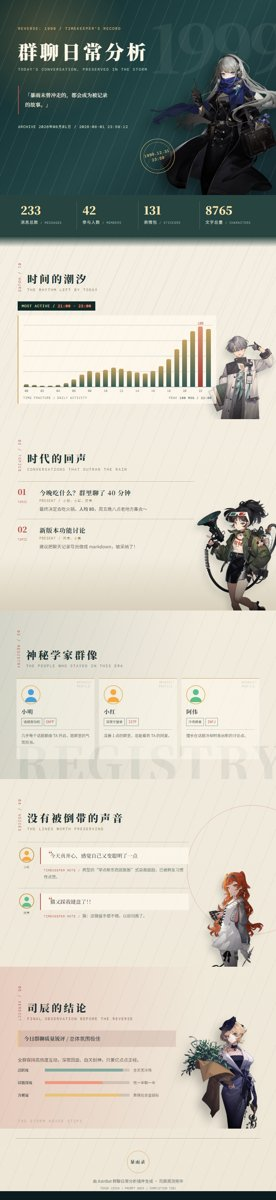
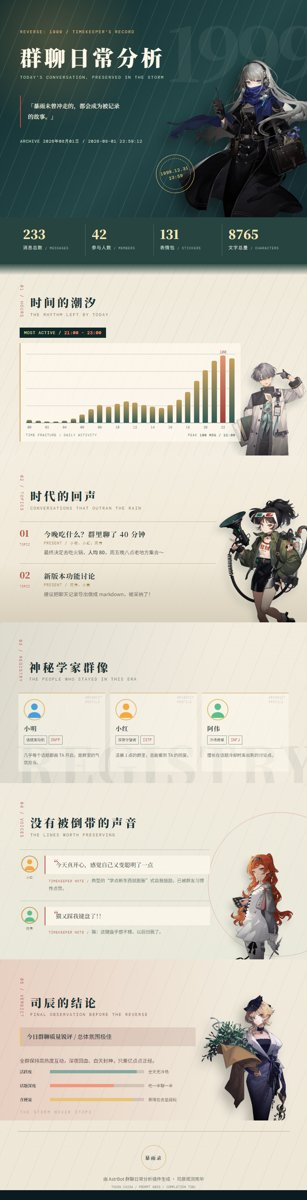
Tighten continuous report spacing

diff --git a/gda_reverse_1999/image_template.html b/gda_reverse_1999/image_template.html
@@ -1,4 +1,4 @@
 <!DOCTYPE html>
 <html lang="{{ 'zh-CN' if t2i_font_source == 'Mainland' else 'zh-Hant' }}"><head><meta charset="UTF-8"><meta name="viewport" content="width=device-width,initial-scale=1"><title>重返未来：1999 · 群聊观测</title><link rel="preconnect" href="{{ t2i_google_fonts_mirror }}"><link href="{{ t2i_google_fonts_mirror }}/css2?family=Noto+Serif+SC:wght@500;700;900&family=Noto+Serif+TC:wght@500;700;900&family=Noto+Sans+SC:wght@400;500;700&family=Noto+Sans+TC:wght@400;500;700&family=DM+Mono&display=swap" rel="stylesheet"><style>
-:root{--night:#102928;--deep:#0b1c20;--mist:#dce2d7;--paper:#f4efe2;--ivory:#fffaf0;--gold:#c99c55;--red:#bd4d45;--blue:#8ca9a3;--ink:#183031;--font-title:{% if t2i_font_source == 'Mainland' %}'Noto Serif SC','Noto Serif TC'{% else %}'Noto Serif TC','Noto Serif SC'{% endif %},serif;--font-body:{% if t2i_font_source == 'Mainland' %}'Noto Sans SC','Noto Sans TC'{% else %}'Noto Sans TC','Noto Sans SC'{% endif %},sans-serif;--mono:'DM Mono',monospace}*{box-sizing:border-box;margin:0;padding:0}html{background:var(--deep)}body{font-family:var(--font-body);color:var(--ink);font-size:15px;line-height:1.8;-webkit-print-color-adjust:exact;print-color-adjust:exact}.page{width:750px;margin:auto;overflow:hidden;background:#f4efe2;background-image:repeating-linear-gradient(112deg,transparent 0 42px,rgba(35,62,58,.055) 43px 44px),linear-gradient(180deg,#f5f0e4,#eee7d8)}.avoid-break{break-inside:avoid;page-break-inside:avoid}.hero{height:530px;position:relative;overflow:hidden;color:#fff8e8;background:linear-gradient(135deg,#102a2b 0%,#244748 55%,#13272d 100%)}.hero:before{content:"";position:absolute;inset:0;background:repeating-linear-gradient(112deg,transparent 0 34px,rgba(218,236,223,.11) 35px 36px),radial-gradient(circle at 17% 18%,rgba(201,156,85,.28),transparent 29%)}.hero:after{content:"1999";position:absolute;right:-24px;top:32px;font:900 180px/1 var(--font-title);letter-spacing:-12px;color:rgba(255,249,230,.06)}.hero-copy{position:absolute;z-index:3;left:49px;top:70px;width:398px}.eyebrow,.en,.chapter-index,.footer-code{font:10px/1.5 var(--mono);letter-spacing:2px}.eyebrow{color:#e2bf82}.hero h1{margin-top:21px;font:900 52px/1.25 var(--font-title);letter-spacing:7px}.hero .en{margin-top:10px;color:#bbcfbf}.hero-quote{margin-top:37px;width:255px;padding:13px 0 13px 17px;border-left:2px solid var(--red);font-family:var(--font-title);font-size:14px;line-height:1.85}.hero-date{margin-top:27px;color:#d6dccc;font:10px var(--mono);letter-spacing:1px}.hero-char{position:absolute;z-index:2;right:-34px;bottom:-26px;width:380px;filter:drop-shadow(-16px 17px 14px rgba(0,0,0,.37))}.hero-seal{position:absolute;z-index:4;right:275px;bottom:59px;width:94px;height:94px;border:1px solid #dfbd78;border-radius:50%;display:flex;align-items:center;justify-content:center;text-align:center;color:#efc980;font:10px/1.55 var(--mono);letter-spacing:1px;transform:rotate(-13deg)}.hero-seal:after{content:"";position:absolute;inset:8px;border:1px dashed #dfbd78;border-radius:50%}.metrics{display:grid;grid-template-columns:repeat(4,1fr);background:rgba(26,57,54,.94);color:#fff8e8;padding:17px 41px 20px;gap:0;position:relative}.metrics:after{content:"";position:absolute;left:0;right:0;bottom:-28px;height:29px;background:linear-gradient(180deg,rgba(26,57,54,.94),transparent);pointer-events:none;z-index:1}.metric{padding:5px 15px 8px;border-left:1px solid rgba(224,200,145,.27)}.metric:first-child{border:0}.metric b{display:block;font:900 30px/1.2 var(--font-title);color:#f8e5b5}.metric small{font-size:11px;color:#d3dfd2;letter-spacing:1px}.metric span{font:8px var(--mono);color:#9eb4aa;letter-spacing:1px}.scene{position:relative;overflow:hidden}.scene-title{display:flex;align-items:flex-end;gap:16px;position:relative;z-index:3}.chapter-index{color:var(--red);writing-mode:vertical-rl;line-height:1}.scene-title h2{font:900 28px/1.2 var(--font-title);letter-spacing:5px}.scene-title .en{margin-top:5px;color:#8b7761}.tide{min-height:410px;padding:72px 48px 42px;background:transparent}.tide:before{content:"";position:absolute;inset:0;background:repeating-linear-gradient(115deg,transparent 0 31px,rgba(40,74,70,.06) 32px 33px)}.tide-char{position:absolute;right:-25px;bottom:-46px;width:250px;opacity:.88;filter:drop-shadow(-8px 13px 9px rgba(25,43,40,.2))}.tide .scene-title{width:420px}.peak-box{position:relative;z-index:3;display:inline-block;margin:24px 0 13px;padding:6px 11px;background:var(--night);color:#f2e0b7;font:10px var(--mono);letter-spacing:1px}.peak-box b{color:#f18770}.chart-wrap{position:relative;z-index:3;width:540px;padding:14px 13px 11px;background:rgba(255,250,239,.7);border-left:2px solid var(--gold)}.chart-col{padding-top:20px;background:repeating-linear-gradient(0deg,transparent 0 40px,rgba(31,55,51,.15) 41px 42px)}.chart-bars{height:160px;display:flex;gap:4px;align-items:flex-end}.chart-item{height:100%;flex:1;display:flex;align-items:flex-end;justify-content:center;position:relative}.chart-bar{width:75%;min-height:3px;background:linear-gradient(to top,#335b57,#c7a15e);border-radius:4px 4px 0 0}.chart-bar.peak{background:linear-gradient(to top,#9e3e39,#e19a73)}.chart-val{position:absolute;bottom:calc(100% + 6px);font:9px var(--mono);color:var(--red)}.chart-hr{border:0;border-top:1px solid #778780}.chart-labels{display:flex;gap:4px;padding-top:5px}.chart-labels span{flex:1;text-align:center;font:8px var(--mono);color:#708079}.chart-caption{display:flex;justify-content:space-between;margin-top:9px;font:8px var(--mono);letter-spacing:1px;color:#697870}.topic-scene{min-height:520px;padding:56px 48px 70px;background:transparent}.topic-scene:before{content:"";position:absolute;left:0;right:0;bottom:0;height:145px;background:linear-gradient(0deg,#d8d0bc,transparent)}.topic-scene .scene-title{margin-bottom:25px}.topic-list{position:relative;z-index:2;width:480px}.topic-item{display:flex;gap:17px;padding:17px 0;border-top:1px solid #c9b99c}.topic-no{width:42px;flex:none;color:var(--red)}.topic-no b{display:block;font:900 21px/1 var(--font-title)}.topic-no span{font:7px var(--mono);letter-spacing:1px}.topic-title{font:700 17px/1.5 var(--font-title);letter-spacing:1px}.topic-meta{margin-top:3px;color:#a47d42;font:9px var(--mono);letter-spacing:1px}.topic-detail{margin-top:5px;color:#5f6861;font-size:12px}.topic-char{position:absolute;right:-58px;bottom:-33px;width:300px;z-index:1;filter:drop-shadow(-9px 11px 8px rgba(25,43,40,.17))}.registry{min-height:457px;padding:54px 45px;background:linear-gradient(90deg,rgba(20,55,52,.13),transparent 72%);color:var(--ink)}.registry:before{content:"REGISTRY";position:absolute;left:37px;bottom:-44px;color:rgba(232,212,169,.08);font:900 130px var(--font-title);letter-spacing:6px}.registry .en{color:#bfae87}.title-grid{display:grid;grid-template-columns:repeat(3,1fr);gap:12px;position:relative;z-index:2;margin-top:26px}.title-card{min-height:220px;position:relative;padding:18px 13px;background:rgba(255,248,230,.09);border-top:1px solid #d4b272;overflow:hidden}.title-card:after{content:"ARCANIST\A PROFILE";white-space:pre;position:absolute;right:7px;top:6px;color:rgba(255,248,230,.35);font:7px/1.5 var(--mono);letter-spacing:1px}.t-avatar{width:52px;height:52px;border-radius:50%;overflow:hidden;border:2px solid #e2bd75}.t-avatar img{width:100%;height:100%;object-fit:cover}.t-name{margin-top:9px;font:700 15px var(--font-title);letter-spacing:1px}.t-badges{display:flex;gap:4px;flex-wrap:wrap;margin-top:7px}.t-title-tag,.t-mbti{padding:2px 5px;border:1px solid rgba(239,218,175,.54);font-size:9px}.t-mbti{font-family:var(--mono);color:#f3bdad}.t-reason{margin-top:9px;padding-top:7px;border-top:1px solid rgba(239,218,175,.23);font-size:10.5px;line-height:1.7;color:#d7ded0}.t-profile{position:absolute;right:-6px;bottom:-4px;width:58%;opacity:.08}.quote-stage{min-height:510px;padding:55px 48px;background:transparent}.quote-stage:after{content:"";position:absolute;right:-110px;top:71px;width:350px;height:350px;border:1px solid rgba(190,73,66,.35);border-radius:50%}.quote-stage .scene-title{margin-bottom:28px}.quote-wrapper{position:relative;z-index:2;width:465px;padding:14px 0;border-top:1px solid #bec6b9}.q-flex{display:flex;gap:13px}.q-side{flex:none;width:48px;text-align:center}.q-avatar{width:41px;height:41px;object-fit:cover;border-radius:50%;border:2px solid var(--gold)}.q-sender{font:8px var(--mono);color:#61716a;word-break:break-all}.q-main{flex:1}.q-bubble{padding:10px 13px 10px 25px;background:rgba(255,251,240,.65);border-left:2px solid var(--red);font:14px/1.75 var(--font-title);position:relative}.q-bubble:before{content:'“';position:absolute;left:9px;top:3px;font:23px var(--font-title);color:var(--red)}.q-note{padding:6px 10px;color:#68766f;font-size:11px}.note-label{font:8px var(--mono);color:var(--red);letter-spacing:1px}.quote-char{position:absolute;right:-20px;bottom:-47px;width:285px;z-index:1;filter:drop-shadow(-9px 13px 8px rgba(30,50,47,.19))}.assessment{min-height:440px;padding:53px 48px 38px;background:linear-gradient(90deg,rgba(189,77,69,.18),transparent 75%);color:var(--ink)}.assessment:before{content:"THE STORM NEVER STOPS";position:absolute;left:49px;bottom:14px;font:9px var(--mono);letter-spacing:3px;color:rgba(255,239,207,.43)}.assessment .en{color:#ebc98b}.block-char{position:absolute;right:-17px;bottom:-27px;width:294px;filter:drop-shadow(-13px 15px 12px rgba(0,0,0,.25))}.quality-summary{position:relative;z-index:2;width:430px;margin-top:24px;font-size:12px;color:#ffeeda}.quality-summary.head{padding:10px 14px;border-left:3px solid #f2c470;background:rgba(30,20,22,.2);font-size:14px}.quality-summary b{font-family:var(--font-title)}.dim-row{position:relative;z-index:2;display:flex;align-items:center;gap:10px;width:418px;padding:8px 0;font-size:10px}.dim-name{width:64px;font-family:var(--font-title);font-weight:700}.dim-bar-box{flex:1;height:8px;background:rgba(255,245,220,.25)}.dim-bar{height:100%;background:#e9c378}.dim-bar.d2{background:#83aaa0}.dim-bar.d3{background:#f0987f}.dim-comment{width:104px;color:#f4d9c5}.footer{position:relative;height:170px;padding-top:60px;text-align:center;background:transparent;color:var(--ink)}.footer:before{content:"";position:absolute;left:42px;right:42px;top:26px;border-top:1px solid rgba(225,190,123,.39)}.seal{display:inline-flex;width:61px;height:61px;align-items:center;justify-content:center;border:1px solid #d4ab67;border-radius:50%;font:700 12px/1.35 var(--font-title);letter-spacing:2px;position:relative;z-index:1}.seal span{display:none}.footer-line{margin-top:12px;font-size:11px;color:#c3d1c2}.token-line{margin-top:4px;font:8px var(--mono);color:#89a39a}.footer-art,.footer-art2,.footer-orn,.deco-char,.blk-sticker,.sec-head,.sec-no,.sec-title,.sec-sub,.kpi-row,.kpi-card,.kpi-num,.kpi-unit,.kpi-label,.kpi-en{display:none}
+:root{--night:#102928;--deep:#0b1c20;--mist:#dce2d7;--paper:#f4efe2;--ivory:#fffaf0;--gold:#c99c55;--red:#bd4d45;--blue:#8ca9a3;--ink:#183031;--font-title:{% if t2i_font_source == 'Mainland' %}'Noto Serif SC','Noto Serif TC'{% else %}'Noto Serif TC','Noto Serif SC'{% endif %},serif;--font-body:{% if t2i_font_source == 'Mainland' %}'Noto Sans SC','Noto Sans TC'{% else %}'Noto Sans TC','Noto Sans SC'{% endif %},sans-serif;--mono:'DM Mono',monospace}*{box-sizing:border-box;margin:0;padding:0}html{background:var(--deep)}body{font-family:var(--font-body);color:var(--ink);font-size:15px;line-height:1.8;-webkit-print-color-adjust:exact;print-color-adjust:exact}.page{width:750px;margin:auto;overflow:hidden;background:#f4efe2;background-image:repeating-linear-gradient(112deg,transparent 0 42px,rgba(35,62,58,.055) 43px 44px),linear-gradient(180deg,#f5f0e4,#eee7d8)}.avoid-break{break-inside:avoid;page-break-inside:avoid}.hero{height:530px;position:relative;overflow:hidden;color:#fff8e8;background:linear-gradient(135deg,#102a2b 0%,#244748 55%,#13272d 100%)}.hero:before{content:"";position:absolute;inset:0;background:repeating-linear-gradient(112deg,transparent 0 34px,rgba(218,236,223,.11) 35px 36px),radial-gradient(circle at 17% 18%,rgba(201,156,85,.28),transparent 29%)}.hero:after{content:"1999";position:absolute;right:-24px;top:32px;font:900 180px/1 var(--font-title);letter-spacing:-12px;color:rgba(255,249,230,.06)}.hero-copy{position:absolute;z-index:3;left:49px;top:70px;width:398px}.eyebrow,.en,.chapter-index,.footer-code{font:10px/1.5 var(--mono);letter-spacing:2px}.eyebrow{color:#e2bf82}.hero h1{margin-top:21px;font:900 52px/1.25 var(--font-title);letter-spacing:7px}.hero .en{margin-top:10px;color:#bbcfbf}.hero-quote{margin-top:37px;width:255px;padding:13px 0 13px 17px;border-left:2px solid var(--red);font-family:var(--font-title);font-size:14px;line-height:1.85}.hero-date{margin-top:27px;color:#d6dccc;font:10px var(--mono);letter-spacing:1px}.hero-char{position:absolute;z-index:2;right:-34px;bottom:-26px;width:380px;filter:drop-shadow(-16px 17px 14px rgba(0,0,0,.37))}.hero-seal{position:absolute;z-index:4;right:275px;bottom:59px;width:94px;height:94px;border:1px solid #dfbd78;border-radius:50%;display:flex;align-items:center;justify-content:center;text-align:center;color:#efc980;font:10px/1.55 var(--mono);letter-spacing:1px;transform:rotate(-13deg)}.hero-seal:after{content:"";position:absolute;inset:8px;border:1px dashed #dfbd78;border-radius:50%}.metrics{display:grid;grid-template-columns:repeat(4,1fr);background:rgba(26,57,54,.94);color:#fff8e8;padding:17px 41px 20px;gap:0;position:relative}.metrics:after{content:"";position:absolute;left:0;right:0;bottom:-28px;height:29px;background:linear-gradient(180deg,rgba(26,57,54,.94),transparent);pointer-events:none;z-index:1}.metric{padding:5px 15px 8px;border-left:1px solid rgba(224,200,145,.27)}.metric:first-child{border:0}.metric b{display:block;font:900 30px/1.2 var(--font-title);color:#f8e5b5}.metric small{font-size:11px;color:#d3dfd2;letter-spacing:1px}.metric span{font:8px var(--mono);color:#9eb4aa;letter-spacing:1px}.scene{position:relative;overflow:hidden}.scene-title{display:flex;align-items:flex-end;gap:16px;position:relative;z-index:3}.chapter-index{color:var(--red);writing-mode:vertical-rl;line-height:1}.scene-title h2{font:900 28px/1.2 var(--font-title);letter-spacing:5px}.scene-title .en{margin-top:5px;color:#8b7761}.tide{padding:52px 48px 34px;background:linear-gradient(180deg,rgba(238,232,216,.78),rgba(244,239,226,.34))}.tide .chart-wrap{margin-bottom:0}.tide:before{content:"";position:absolute;inset:0;background:repeating-linear-gradient(115deg,transparent 0 31px,rgba(40,74,70,.06) 32px 33px)}.tide-char{position:absolute;right:-25px;bottom:-46px;width:250px;opacity:.88;filter:drop-shadow(-8px 13px 9px rgba(25,43,40,.2))}.tide .scene-title{width:420px}.peak-box{position:relative;z-index:3;display:inline-block;margin:24px 0 13px;padding:6px 11px;background:var(--night);color:#f2e0b7;font:10px var(--mono);letter-spacing:1px}.peak-box b{color:#f18770}.chart-wrap{position:relative;z-index:3;width:540px;padding:14px 13px 11px;background:rgba(255,250,239,.7);border-left:2px solid var(--gold)}.chart-col{padding-top:20px;background:repeating-linear-gradient(0deg,transparent 0 40px,rgba(31,55,51,.15) 41px 42px)}.chart-bars{height:160px;display:flex;gap:4px;align-items:flex-end}.chart-item{height:100%;flex:1;display:flex;align-items:flex-end;justify-content:center;position:relative}.chart-bar{width:75%;min-height:3px;background:linear-gradient(to top,#335b57,#c7a15e);border-radius:4px 4px 0 0}.chart-bar.peak{background:linear-gradient(to top,#9e3e39,#e19a73)}.chart-val{position:absolute;bottom:calc(100% + 6px);font:9px var(--mono);color:var(--red)}.chart-hr{border:0;border-top:1px solid #778780}.chart-labels{display:flex;gap:4px;padding-top:5px}.chart-labels span{flex:1;text-align:center;font:8px var(--mono);color:#708079}.chart-caption{display:flex;justify-content:space-between;margin-top:9px;font:8px var(--mono);letter-spacing:1px;color:#697870}.topic-scene{padding:48px 48px 42px;background:linear-gradient(180deg,rgba(247,240,225,.30),rgba(232,221,198,.42))}.topic-scene .topic-list{margin-bottom:0}.topic-scene:before{content:"";position:absolute;left:0;right:0;bottom:0;height:145px;background:linear-gradient(0deg,#d8d0bc,transparent)}.topic-scene .scene-title{margin-bottom:25px}.topic-list{position:relative;z-index:2;width:480px}.topic-item{display:flex;gap:17px;padding:17px 0;border-top:1px solid #c9b99c}.topic-no{width:42px;flex:none;color:var(--red)}.topic-no b{display:block;font:900 21px/1 var(--font-title)}.topic-no span{font:7px var(--mono);letter-spacing:1px}.topic-title{font:700 17px/1.5 var(--font-title);letter-spacing:1px}.topic-meta{margin-top:3px;color:#a47d42;font:9px var(--mono);letter-spacing:1px}.topic-detail{margin-top:5px;color:#5f6861;font-size:12px}.topic-char{position:absolute;right:-58px;bottom:-33px;width:300px;z-index:1;filter:drop-shadow(-9px 11px 8px rgba(25,43,40,.17))}.registry{padding:42px 45px 28px;background:linear-gradient(90deg,rgba(20,55,52,.09),rgba(244,239,226,.10) 72%);color:var(--ink)}.registry:before{content:"REGISTRY";position:absolute;left:37px;bottom:-44px;color:rgba(21,57,53,.025);font:900 130px var(--font-title);letter-spacing:6px}.registry .en{color:#bfae87}.title-grid{display:grid;grid-template-columns:repeat(3,1fr);gap:12px;position:relative;z-index:2;margin-top:26px}.title-card{position:relative;padding:14px 13px 13px;background:rgba(255,250,240,.48);border-top:1px solid #d4b272;overflow:hidden}.title-card:after{content:"ARCANIST\A PROFILE";white-space:pre;position:absolute;right:7px;top:6px;color:rgba(255,248,230,.35);font:7px/1.5 var(--mono);letter-spacing:1px}.t-avatar{width:52px;height:52px;border-radius:50%;overflow:hidden;border:2px solid #e2bd75}.t-avatar img{width:100%;height:100%;object-fit:cover}.t-name{margin-top:9px;font:700 15px var(--font-title);letter-spacing:1px}.t-badges{display:flex;gap:4px;flex-wrap:wrap;margin-top:7px}.t-title-tag,.t-mbti{padding:2px 5px;border:1px solid rgba(239,218,175,.54);font-size:9px}.t-mbti{font-family:var(--mono);color:#f3bdad}.t-reason{margin-top:9px;padding-top:7px;border-top:1px solid rgba(239,218,175,.23);font-size:10.5px;line-height:1.7;color:#d7ded0}.t-profile{position:absolute;right:-6px;bottom:-4px;width:58%;opacity:.08}.quote-stage{padding:46px 48px 38px;background:linear-gradient(180deg,rgba(238,235,222,.26),rgba(226,232,219,.50))}.quote-stage .quote-wrapper:last-child{margin-bottom:0}.quote-stage:after{content:"";position:absolute;right:-110px;top:71px;width:350px;height:350px;border:1px solid rgba(190,73,66,.35);border-radius:50%}.quote-stage .scene-title{margin-bottom:28px}.quote-wrapper{position:relative;z-index:2;width:465px;padding:14px 0;border-top:1px solid #bec6b9}.q-flex{display:flex;gap:13px}.q-side{flex:none;width:48px;text-align:center}.q-avatar{width:41px;height:41px;object-fit:cover;border-radius:50%;border:2px solid var(--gold)}.q-sender{font:8px var(--mono);color:#61716a;word-break:break-all}.q-main{flex:1}.q-bubble{padding:10px 13px 10px 25px;background:rgba(255,251,240,.65);border-left:2px solid var(--red);font:14px/1.75 var(--font-title);position:relative}.q-bubble:before{content:'“';position:absolute;left:9px;top:3px;font:23px var(--font-title);color:var(--red)}.q-note{padding:6px 10px;color:#68766f;font-size:11px}.note-label{font:8px var(--mono);color:var(--red);letter-spacing:1px}.quote-char{position:absolute;right:-20px;bottom:-47px;width:285px;z-index:1;filter:drop-shadow(-9px 13px 8px rgba(30,50,47,.19))}.assessment{padding:46px 48px 34px;background:linear-gradient(90deg,rgba(189,77,69,.16),rgba(244,239,226,.16) 75%);color:var(--ink)}.assessment:before{content:"THE STORM NEVER STOPS";position:absolute;left:49px;bottom:14px;font:9px var(--mono);letter-spacing:3px;color:rgba(255,239,207,.43)}.assessment .en{color:#ebc98b}.block-char{position:absolute;right:-17px;bottom:-27px;width:294px;filter:drop-shadow(-13px 15px 12px rgba(0,0,0,.25))}.quality-summary{position:relative;z-index:2;width:430px;margin-top:24px;font-size:12px;color:#ffeeda}.quality-summary.head{padding:10px 14px;border-left:3px solid #f2c470;background:rgba(30,20,22,.2);font-size:14px}.quality-summary b{font-family:var(--font-title)}.dim-row{position:relative;z-index:2;display:flex;align-items:center;gap:10px;width:418px;padding:8px 0;font-size:10px}.dim-name{width:64px;font-family:var(--font-title);font-weight:700}.dim-bar-box{flex:1;height:8px;background:rgba(255,245,220,.25)}.dim-bar{height:100%;background:#e9c378}.dim-bar.d2{background:#83aaa0}.dim-bar.d3{background:#f0987f}.dim-comment{width:104px;color:#f4d9c5}.footer{position:relative;height:170px;padding-top:60px;text-align:center;background:transparent;color:var(--ink)}.footer:before{content:"";position:absolute;left:42px;right:42px;top:26px;border-top:1px solid rgba(225,190,123,.39)}.seal{display:inline-flex;width:61px;height:61px;align-items:center;justify-content:center;border:1px solid #d4ab67;border-radius:50%;font:700 12px/1.35 var(--font-title);letter-spacing:2px;position:relative;z-index:1}.seal span{display:none}.footer-line{margin-top:12px;font-size:11px;color:#c3d1c2}.token-line{margin-top:4px;font:8px var(--mono);color:#89a39a}.footer-art,.footer-art2,.footer-orn,.deco-char,.blk-sticker,.sec-head,.sec-no,.sec-title,.sec-sub,.kpi-row,.kpi-card,.kpi-num,.kpi-unit,.kpi-label,.kpi-en{display:none}
 .registry:before{color:rgba(21,57,53,.075)}.registry .en{color:#71817a}.registry .chapter-index{color:var(--red)}.registry .title-card{background:rgba(255,250,240,.48);border-top-color:var(--gold)}.registry .title-card:after{color:rgba(28,65,61,.28)}.registry .t-name{color:var(--ink)}.registry .t-title-tag,.registry .t-mbti{border-color:rgba(44,75,69,.5);color:var(--ink)}.registry .t-mbti{color:var(--red)}.registry .t-reason{border-top-color:rgba(44,75,69,.22);color:#5b6e67}.assessment:before{color:rgba(133,59,52,.45)}.assessment .en{color:#8e554c}.assessment .quality-summary{color:#5d4a45}.assessment .quality-summary.head{background:rgba(116,49,43,.12);color:var(--ink)}.assessment .dim-comment{color:#745d56}.assessment .dim-bar-box{background:rgba(93,74,67,.18)}.footer:before{border-color:rgba(153,113,65,.5)}.footer-line{color:#566d66}.token-line{color:#82928c}</style></head><body><div class="page"><section class="hero"><div class="hero-copy"><div class="eyebrow">REVERSE: 1999 / TIMEKEEPER'S RECORD</div><h1>群聊日常分析</h1><div class="en">TODAY'S CONVERSATION, PRESERVED IN THE STORM</div><div class="hero-quote">「暴雨未曾冲走的，都会成为被记录的故事。」</div><div class="hero-date">ARCHIVE {{ current_date }} / {{ current_datetime }}</div></div><div class="hero-seal">1999.12.31<br>23:59</div><img class="hero-char" src="https://re.bluepoch.com/home/img/role/2.png" alt="维尔汀"></section><section class="metrics"><div class="metric"><b>{{ message_count }}</b><small>消息总数</small><span> / MESSAGES</span></div><div class="metric"><b>{{ participant_count }}</b><small>参与人数</small><span> / MEMBERS</span></div><div class="metric"><b>{{ emoji_count }}</b><small>表情包</small><span> / STICKERS</span></div><div class="metric"><b>{{ total_characters }}</b><small>文字总量</small><span> / CHARACTERS</span></div></section><section class="scene tide"><img class="tide-char" src="https://re.bluepoch.com/home/img/role/1.png" alt="角色"><div class="scene-title"><div class="chapter-index">01 / HOURS</div><div><h2>时间的潮汐</h2><div class="en">THE RHYTHM LEFT BY TODAY</div></div></div><div class="peak-box">MOST ACTIVE / <b>{{ most_active_period }}</b></div>{{ hourly_chart_html | safe }}</section><section class="scene topic-scene"><img class="topic-char" src="https://re.bluepoch.com/home/img/role/4.png" alt="角色">{{ topics_html | safe }}</section><section class="scene registry">{{ titles_html | safe }}</section><section class="scene quote-stage"><img class="quote-char" src="https://re.bluepoch.com/home/img/role/5.png" alt="角色">{{ quotes_html | safe }}</section>{% if chat_quality_html %}<section class="scene assessment">{{ chat_quality_html | safe }}</section>{% endif %}<footer class="footer"><div class="seal">暴雨录<span>STORM</span></div><div class="footer-line">由 AstrBot 群聊日常分析插件生成 · 司辰观测完毕</div><div class="token-line">TOKEN {{ total_tokens }} / PROMPT {{ prompt_tokens }} / COMPLETION {{ completion_tokens }}</div></footer></div></body></html>
